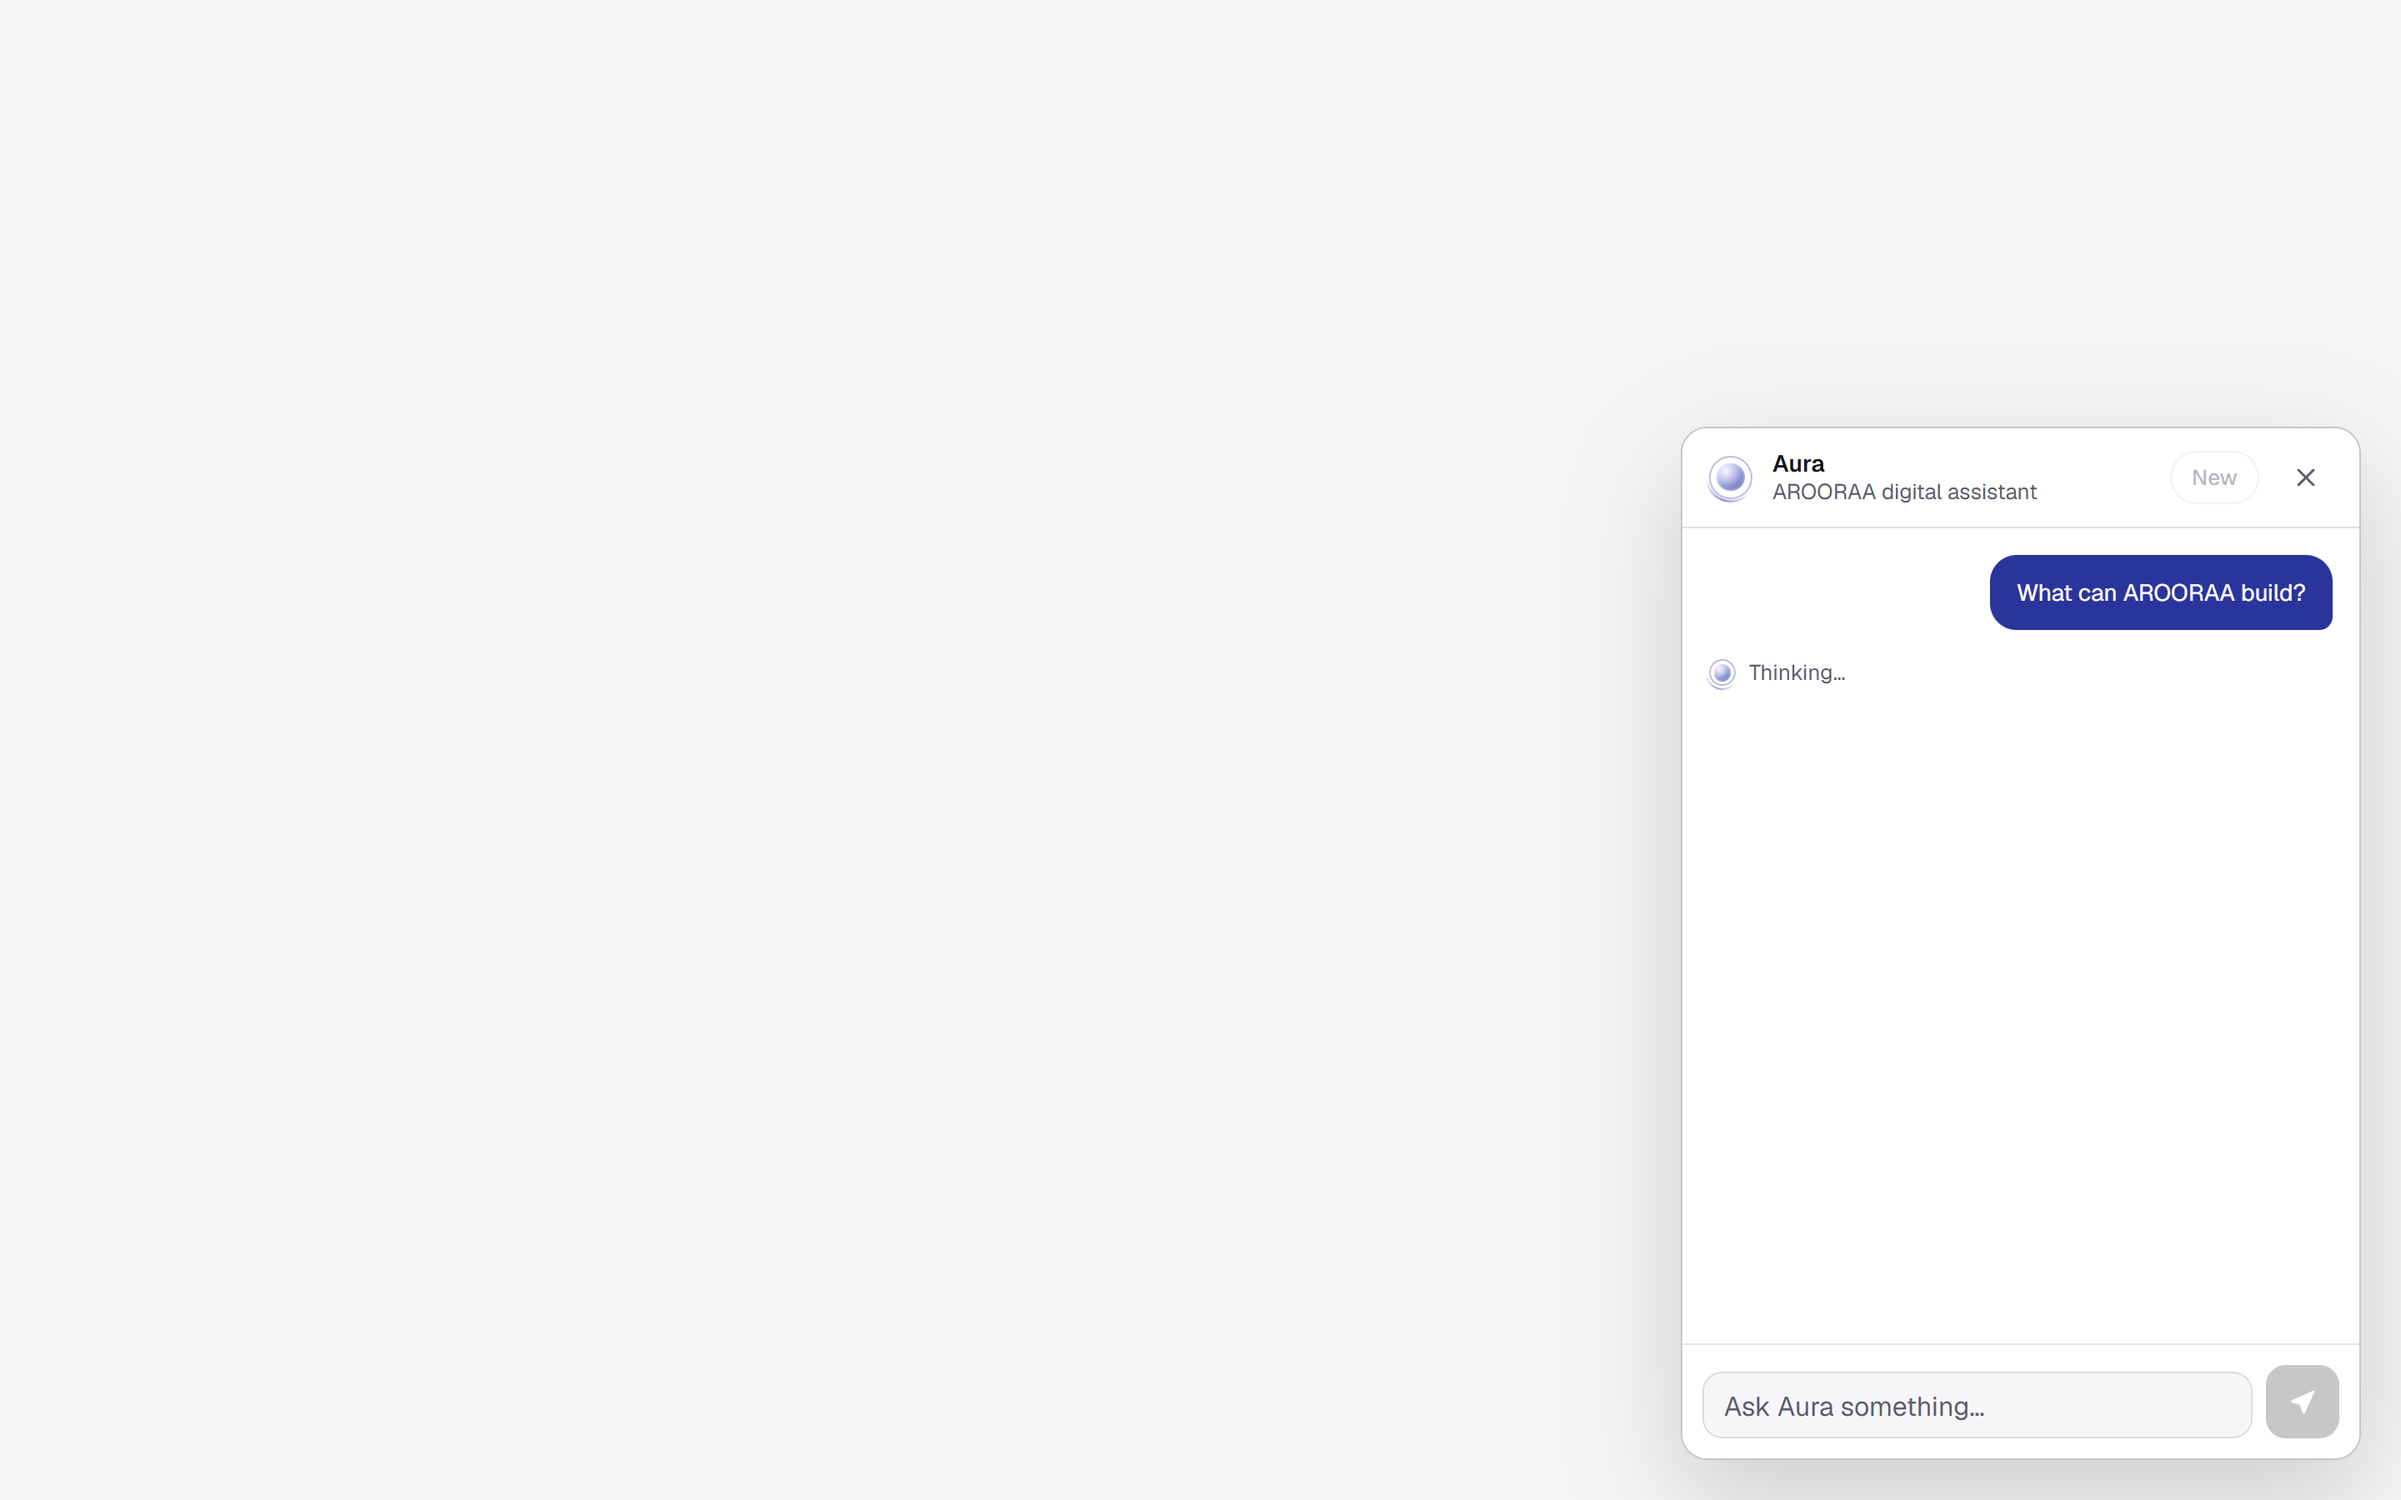
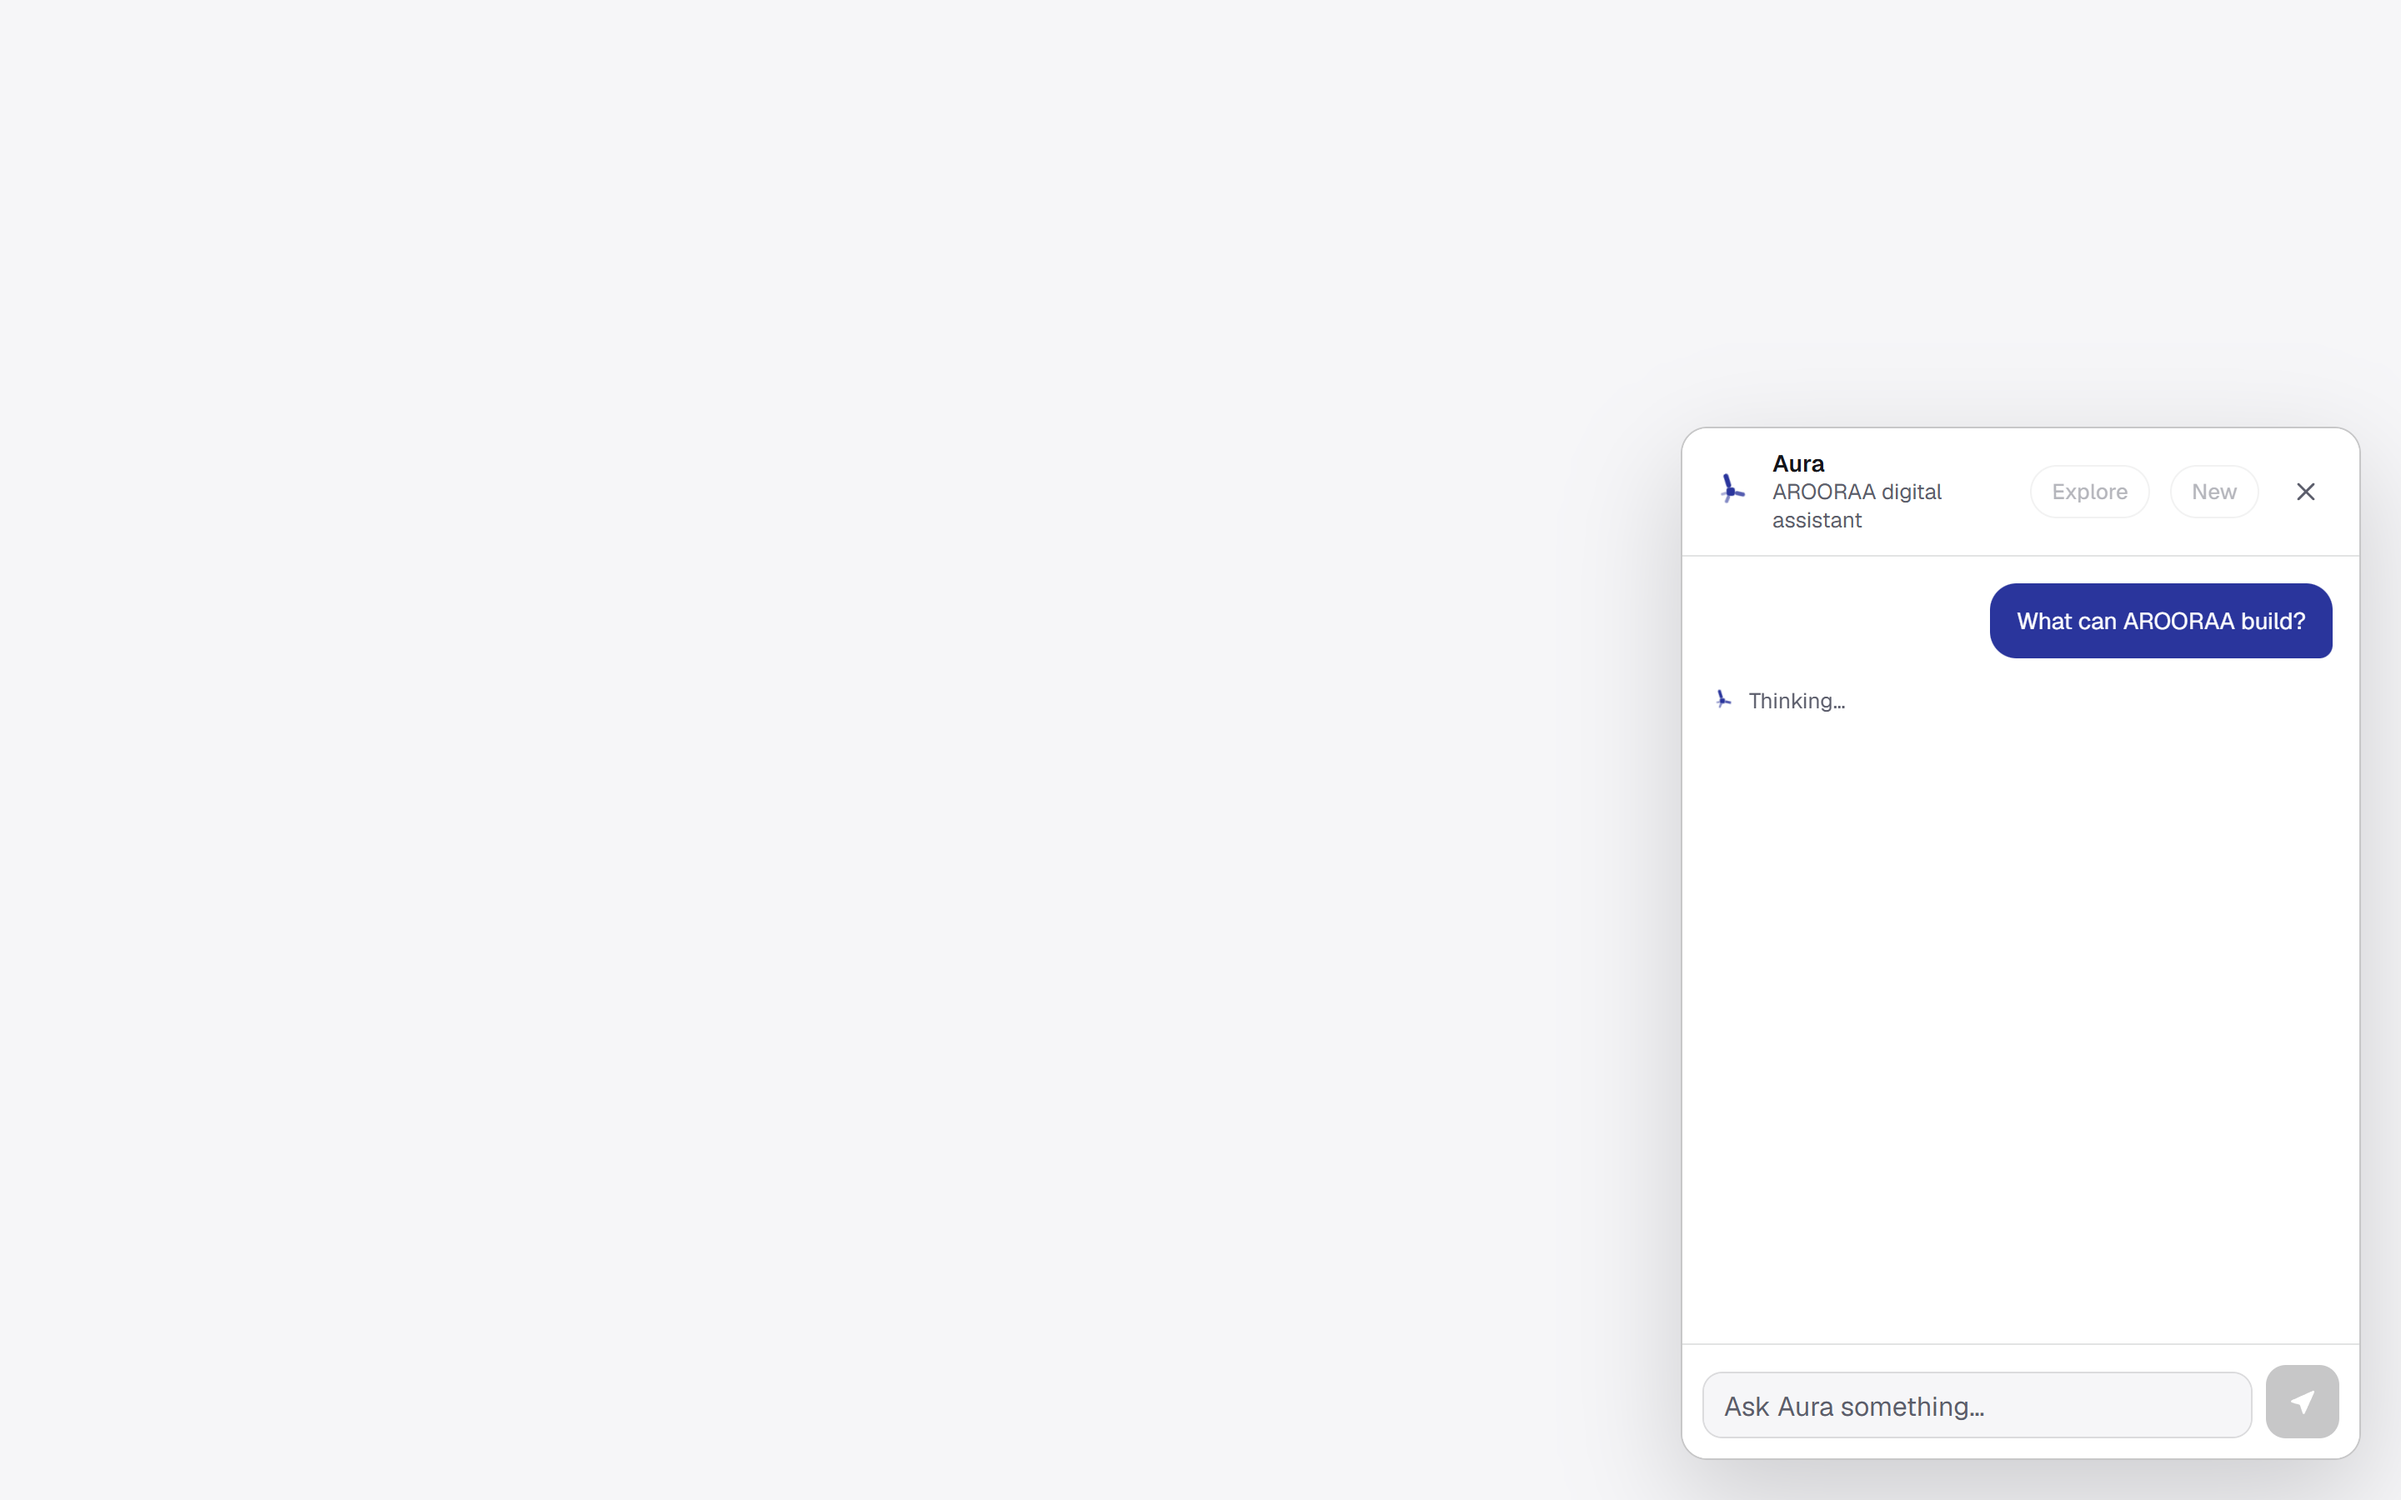
docs(aura): recapture the review page for the Spark and the guided entry
Every capture is new: the orb is gone from the approved review state, and the
first-open state is the guided menu rather than an empty composer. Adds the two
nested levels (Products, Services), which the review page can now render directly
via a review-only initialGuidedSection prop instead of needing a click first.

The README carries the two things that cost time to relearn: capture one shot per
command, because Edge silently fails to write while still exiting 0 when several
run in a tight loop -- and since the target files already exist, the failure
leaves the previous screenshot in place rather than an obvious gap. Three stale
captures got through that way before the mtimes were checked.

Also documents the A4.1 page-awareness stage in ARCHITECTURE.md, and suppresses
one pre-existing react-hooks/set-state-in-effect error in the review harness with
the reason it cannot be rewritten: the page is statically exported, so a lazy
initializer would be a hydration mismatch rather than a saved render. Repo lint is
back to zero errors.

Changed region(s): [[0.8125, 0.3111, 0.9688, 0.4667], [0.7188, 0.3111, 0.7812, 0.3733], [0.7188, 0.4356, 0.75, 0.4667]]

diff --git a/frontend-v2/src/components/aura/AuraReviewStates.tsx b/frontend-v2/src/components/aura/AuraReviewStates.tsx
@@ -111,7 +111,7 @@ const STATES: ReviewState[] = [
   {
     id: "launcher",
     title: "Closed — the launcher",
-    note: "Lower-right, safe-area aware, one line of type. Reads as a presence you can address rather than a support widget.",
+    note: "The Aura Spark, lower-right, safe-area aware, one line of type. Reads as a presence you can address rather than a support widget.",
     frame: (
       <div className={styles.stage} data-frame="launcher">
         <AuraLauncher onOpen={() => {}} state="IDLE" panelId="review-1" buttonRef={{ current: null }} />
@@ -120,11 +120,49 @@ const STATES: ReviewState[] = [
   },
   {
     id: "first-open",
-    title: "First open",
-    note: "Identity, a conversational welcome, and four openings that send real messages rather than navigating anywhere.",
+    title: "First open — guided entry",
+    note: "A deliberate opening rather than an empty composer: Products, Services, a project idea, or About — with two quieter escape hatches below.",
     frame: panel(
       "first-open",
-      <AuraPanel id="review-2" onClose={() => {}} controller={stubController([])} diagnosticsEnabled={false} />,
+      <AuraPanel
+        id="review-2"
+        onClose={() => {}}
+        controller={stubController([])}
+        diagnosticsEnabled={false}
+        onNavigate={() => {}}
+      />,
+    ),
+  },
+  {
+    id: "products",
+    title: "Guided entry — Products",
+    note: "Every destination here comes from the same route data the site's own Products page uses — public names only, short approved taglines.",
+    frame: panel(
+      "products",
+      <AuraPanel
+        id="review-products"
+        onClose={() => {}}
+        controller={stubController([])}
+        diagnosticsEnabled={false}
+        onNavigate={() => {}}
+        initialGuidedSection="products"
+      />,
+    ),
+  },
+  {
+    id: "services",
+    title: "Guided entry — Services",
+    note: "The six approved service groups, and none besides.",
+    frame: panel(
+      "services",
+      <AuraPanel
+        id="review-services"
+        onClose={() => {}}
+        controller={stubController([])}
+        diagnosticsEnabled={false}
+        onNavigate={() => {}}
+        initialGuidedSection="services"
+      />,
     ),
   },
   {
@@ -138,6 +176,7 @@ const STATES: ReviewState[] = [
         onClose={() => {}}
         controller={stubController(GROUNDED)}
         diagnosticsEnabled={false}
+        onNavigate={() => {}}
       />,
     ),
   },
@@ -152,6 +191,7 @@ const STATES: ReviewState[] = [
         onClose={() => {}}
         controller={stubController(GROUNDED)}
         diagnosticsEnabled={false}
+        onNavigate={() => {}}
         expandSources
       />,
     ),
@@ -170,6 +210,7 @@ const STATES: ReviewState[] = [
           state: "THINKING",
         })}
         diagnosticsEnabled={false}
+        onNavigate={() => {}}
       />,
     ),
   },
@@ -192,6 +233,7 @@ const STATES: ReviewState[] = [
           },
         })}
         diagnosticsEnabled={false}
+        onNavigate={() => {}}
       />,
     ),
   },
@@ -206,6 +248,7 @@ const STATES: ReviewState[] = [
         onClose={() => {}}
         controller={stubController(BOUNDARY)}
         diagnosticsEnabled={false}
+        onNavigate={() => {}}
       />,
     ),
   },
@@ -232,6 +275,7 @@ const STATES: ReviewState[] = [
           },
         ])}
         diagnosticsEnabled
+        onNavigate={() => {}}
       />,
     ),
   },
@@ -246,6 +290,12 @@ export function AuraReviewStates({ bannerClassName }: { bannerClassName?: string
   useEffect(() => {
     // Read from the URL rather than a router hook: this is a static page, and useSearchParams
     // would drag a Suspense boundary into a review harness for no benefit.
+    //
+    // This state genuinely has to be set after mount. The page is statically exported, so `window`
+    // does not exist when it is prerendered; a lazy useState initializer would therefore produce
+    // one tree on the server and a different one on the client — a hydration mismatch, not a saved
+    // render. Hence the suppression rather than a rewrite.
+    // eslint-disable-next-line react-hooks/set-state-in-effect -- see above
     setQuery(new URLSearchParams(window.location.search));
   }, []);
 

diff --git a/frontend-v2/design-assets/aura-review/README.md b/frontend-v2/design-assets/aura-review/README.md
@@ -1,19 +1,24 @@
-# Aura — A4 visual review
+# Aura — visual review
 
 Captures of every Aura state from the real components and the real stylesheets, so the experience
 can be judged by looking at it rather than by reading a test report.
 
+Regenerated for A4.1: the circular orb mark is gone (replaced by the Aura Spark) and the empty
+composer is gone (replaced by the guided entry), so every capture below is new.
+
 | File | What it shows |
 | --- | --- |
-| `01-homepage-launcher-desktop.png` | Closed launcher on the real home page, 1440×900 |
+| `01-homepage-launcher-desktop.png` | Closed launcher — the Aura Spark on the real home page, 1440×900 |
 | `02-all-states-desktop.png` | Every state on one page, 1440 wide |
-| `03-desktop-first-open.png` | First open — identity, welcome, starter prompts |
+| `03-desktop-first-open.png` | First open — guided entry, four openings plus two quieter ones |
+| `03b-desktop-products.png` | Guided entry, Products level — public names and short taglines |
+| `03c-desktop-services.png` | Guided entry, Services level — the six approved groups |
 | `04-desktop-grounded.png` | Grounded answer, sources collapsed |
 | `05-desktop-sources-expanded.png` | Sources expanded — title and section only |
 | `06-desktop-thinking.png` | Thinking state |
 | `07-desktop-error.png` | Network failure, with a retry |
 | `08-desktop-internal-boundary.png` | Boundary turn — no sources section at all |
-| `09-mobile-states-390x844.png` | All eight states at a true 390×844 mobile viewport |
+| `09-mobile-states-390x844.png` | Every state at a true 390×844 mobile viewport, guided entry included |
 | `10-launcher-on-mesa-page-live.png` | Launcher on `/products/mesa`, from a running `next dev` |
 
 ## Regenerating
@@ -27,7 +32,7 @@ own viewport and the mobile breakpoint and `dvh` height evaluate correctly insid
 ```powershell
 cd C:\MM\Arooraa\frontend-v2
 npm run build                       # static export into out/
-npx serve out                       # or any static server on :4173
+npx serve out -l 4173
 # then, per shot:
 & "C:\Program Files (x86)\Microsoft\Edge\Application\msedge.exe" `
   --headless=new --hide-scrollbars --force-device-scale-factor=2 `
@@ -37,5 +42,15 @@ npx serve out                       # or any static server on :4173
   "http://localhost:4173/design-system/aura?only=grounded"
 ```
 
-`10-…-live.png` is the exception: it comes from `npm run dev` on `:3000` with aura-service running,
-so it shows Aura mounted on the real site rather than on the review page.
+Two things worth knowing before regenerating these, both learned the hard way:
+
+- **Capture one shot per command and read the output.** Run in a tight loop, several of the Edge
+  invocations silently fail to write while still exiting 0 — and because the target files already
+  exist, the failure leaves the *previous* screenshot in place rather than producing an obvious
+  gap. Check `stat -c '%y'` on the files, not just the exit codes.
+- **`?only=products` / `?only=services`** render the nested guided levels directly, via the
+  review-only `initialGuidedSection` prop on `AuraPanel`, so no click is needed to capture them.
+
+`10-…-live.png` is the exception: it comes from `npm run dev` on `:3000`, so it shows Aura mounted
+on the real site rather than on the review page. aura-service does not need to be running for it —
+the launcher makes no request until a message is sent.

diff --git a/aura-service/ARCHITECTURE.md b/aura-service/ARCHITECTURE.md
@@ -339,6 +339,36 @@ A run counts as acceptance only with `Tests run: 1, Failures: 0, Errors: 0, Skip
 `BUILD SUCCESS`. `Skipped: 1` means `OPENAI_API_KEY` was not visible to that shell, not that the
 gate passed. (A plain `mvn -o verify` is already safe: the POM binds both failsafe goals.)
 
+## What A4.1 fixed (page awareness)
+
+The owner tested Aura on `/products/mesa` and asked "Tell me more about this." It came back
+`GENERAL_CONSULTING` / `NO_EVIDENCE` — generic platform talk with no MESA evidence at all.
+
+The cause is plain once the classifier is read in order: "tell me more about this" names no
+organisation subject, matches no other rule, and lands on the `GENERAL_CONSULTING` catch-all, which
+`RetrievalPlanner` deliberately does not search for. `currentPath` reached the prompt as a hint
+(A3) but nothing ever resolved the pronoun, so retrieval was never given a subject to look for.
+
+`PageAwareScopeResolver` (pipeline stage 3.5) closes exactly that gap, and nothing wider:
+
+- **The subject can only come from a fixed registry.** `PageContextRegistry` maps known public
+  routes to canonical subjects; anything else resolves to nothing. A client-supplied path can never
+  name a subject the registry does not already know, never selects a knowledge space, and never
+  widens what a turn may see — `currentPath` stays context, not authorization.
+- **It only ever narrows a fallback.** It fires when the classifier's own verdict was one of the
+  two "nothing to look up" outcomes — `GENERAL_CONSULTING`, or `PROJECT_DISCOVERY` without
+  `mentionsOrganisationSubject()` — *and* the message is a contextual reference *and* the path
+  resolves. `INTERNAL_BOUNDARY` is decided before either eligible mode can be reached, so a
+  confidentiality probe is untouched by construction rather than by a special case.
+  The `PROJECT_DISCOVERY` branch is not theoretical: "How could this help my existing application?"
+  contains "existing application", one of `ScopeClassifier`'s own weak discovery markers, and is
+  already `PROJECT_DISCOVERY` before this stage runs.
+- **The visitor's words are never rewritten.** The transcript and the model's user turn stay
+  exactly what was typed. Only the internal retrieval query changes, and it is *replaced* rather
+  than appended to — measured under the stub embedder, "Tell me more about this. MESA" still scored
+  0.085 (the pronoun and filler dominate a bag-of-words query), while "Tell me about MESA" scored
+  0.180 against the same corpus. Appending the subject looks like the safer edit and fixes nothing.
+
 ## Running Aura locally for a manual session
 
 Windows PowerShell, from `C:\MM\Arooraa\aura-service`. Both the chat surface and the bootstrap
